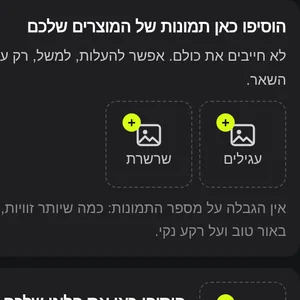
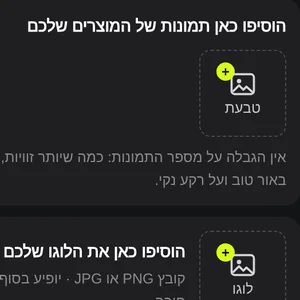
How it works, catalog steps: a video order with two clean ring photos and a matching ring video; tidier order message
Claude-Session: https://claude.ai/code/session_015Kj6wZhrCRAfSfrvuRRH85

diff --git a/index.html b/index.html
@@ -880,7 +880,7 @@ dialog .undo{bottom:24px}
       <div class="hw-tabs" role="tablist" aria-label="שתי הדרכים"><button type="button" role="tab" id="hwt-cat" data-hw="cat" aria-selected="true" aria-controls="how-cat">בוחרים מהקטלוג</button><button type="button" role="tab" id="hwt-scan" data-hw="scan" aria-selected="false" aria-controls="how-scan">שולחים את העסק</button></div>
       <div class="hw-p" id="how-cat" role="tabpanel" aria-labelledby="hwt-cat">
         <p class="hw-line">לוחצים על סרטון או תמונה, מצרפים תמונה של התכשיט שלכם, ושולחים לי בוואטסאפ.</p>
-        <div class="hw-row"><button type="button" class="hw-s" aria-expanded="false" data-big="how/b1.webp?3" data-h="בוחרים פרסומת" data-d="גוללים בקטלוג ומסננים לפי סגנון. לחיצה על + או על הפרסומת עצמה פותחת אותה עם המחיר. בסרטונים, הלב שומר אותם לרשימת &quot;אהבתי&quot; כדי לחזור אליהם אחר כך." data-ill="0"><span class="ph"><img src="how/b1-s.webp?3" alt="" loading="lazy" width="300" height="300"><i aria-hidden="true">1</i></span><b>בוחרים</b></button><button type="button" class="hw-s" aria-expanded="false" data-big="how/b2.webp?3" data-h="מצרפים תמונות של התכשיט" data-d="בחלון שנפתח יש משבצת לכל סוג תכשיט שמופיע בפרסומת, למשל עגילים ושרשרת. מעלים תמונות מהטלפון, וכמה שיותר זוויות, יותר טוב. לא חייבים את כל הסוגים, ואפשר להוסיף גם לוגו והערות." data-ill="0"><span class="ph"><img src="how/b2-s.webp?3" alt="" loading="lazy" width="300" height="300"><i aria-hidden="true">2</i></span><b>מצרפים תכשיט</b></button><button type="button" class="hw-s" aria-expanded="false" data-big="how/b3.webp?3" data-h="שולחים בוואטסאפ ומקבלים" data-d="לוחצים &quot;שליחה אליי בוואטסאפ&quot;, או מוסיפים לסל כדי להזמין כמה יחד. ההזמנה נפתחת בוואטסאפ כהודעה מוכנה, ואתם רק שולחים. תוך 2 ימי עסקים מקבלים את הפרסומת עם התכשיטים שלכם." data-ill="1"><span class="ph"><img src="how/b3-s.webp?3" alt="" loading="lazy" width="300" height="300"><i aria-hidden="true">3</i><em>המחשה</em></span><b>שולחים ומקבלים</b></button></div>
+        <div class="hw-row"><button type="button" class="hw-s" aria-expanded="false" data-big="how/b1.webp?4" data-h="בוחרים פרסומת" data-d="גוללים בקטלוג ומסננים לפי סגנון. לחיצה על + או על הפרסומת עצמה פותחת אותה עם המחיר. בסרטונים, הלב שומר אותם לרשימת &quot;אהבתי&quot; כדי לחזור אליהם אחר כך." data-ill="0"><span class="ph"><img src="how/b1-s.webp?4" alt="" loading="lazy" width="300" height="300"><i aria-hidden="true">1</i></span><b>בוחרים</b></button><button type="button" class="hw-s" aria-expanded="false" data-big="how/b2.webp?4" data-h="מצרפים תמונות של התכשיט" data-d="בחלון שנפתח יש משבצת לכל סוג תכשיט שמופיע בפרסומת, למשל טבעת, צמיד ועגילים. מעלים תמונות מהטלפון, וכמה שיותר זוויות, יותר טוב. לא חייבים את כל הסוגים, ואפשר להוסיף גם לוגו והערות." data-ill="0"><span class="ph"><img src="how/b2-s.webp?4" alt="" loading="lazy" width="300" height="300"><i aria-hidden="true">2</i></span><b>מצרפים תכשיט</b></button><button type="button" class="hw-s" aria-expanded="false" data-big="how/b3.webp?4" data-h="שולחים בוואטסאפ ומקבלים" data-d="לוחצים &quot;שליחה אליי בוואטסאפ&quot;, או מוסיפים לסל כדי להזמין כמה יחד. ההזמנה נפתחת בוואטסאפ כהודעה מוכנה, ואתם רק שולחים. תוך 2 ימי עסקים מקבלים את הפרסומת עם התכשיטים שלכם." data-ill="1"><span class="ph"><img src="how/b3-s.webp?4" alt="" loading="lazy" width="300" height="300"><i aria-hidden="true">3</i><em>המחשה</em></span><b>שולחים ומקבלים</b></button></div>
         <p class="hw-hint">לחיצה על תמונה פותחת הסבר מפורט.</p>
         <div class="hw-d" hidden><div class="hw-dimg"><img alt=""><em hidden>המחשה</em></div><div class="hw-dt"><h3></h3><p></p><button type="button" class="hw-dx">סגירה</button></div></div>
         <div class="hw-cta"><a class="btn gold" href="#gallery">לקטלוג הפרסומות <span class="arr" aria-hidden="true">←</span></a></div>
@@ -1401,8 +1401,8 @@ dialog .undo{bottom:24px}
   document.getElementById('lbSend').addEventListener('click',function(){var ag=document.getElementById('lbAgree'),er=document.getElementById('lbErr');
     if(!ag.checked){er.textContent='כדי לשלוח צריך לסמן את ההסכמה למדיניות הפרטיות.';er.hidden=false;ag.focus();return;}
     er.hidden=true;var id=lbId,i=find(id),a=lbArr(),nv=lbNote.value.trim();
-    var L=['*הזמנה מהאתר · BOOST MEDIA*',i.ph?'תמונת קמפיין '+dispNum(id)+' · '+i.t+' · 10 תמונות קמפיין '+PI+' ₪':'סרטון '+dispNum(id)+' · '+i.t+' · '+vp(id)+' ₪','תמונות: '+(a.length?pdesc(a)+', שולח/ת בהודעה נפרדת':'עדיין לא צירפתי, אשלח בשיחה')];
-    if(nv)L.push('הערות: '+nv);L.push('לצפייה: '+BASE+(i.ph?'ph/'+phN(id)+'.webp':'?v='+numOf(id)),'','אשמח לקבל פרטי תשלום.');
+    var L=['*הזמנה מהאתר · BOOST MEDIA*','',i.ph?'*תמונת קמפיין '+dispNum(id)+'* · '+i.t:'*סרטון '+dispNum(id)+'* · '+i.t,'*מחיר:* '+(i.ph?'10 תמונות קמפיין · '+PI+' ₪':vp(id)+' ₪'),'*תמונות:* '+(a.length?pdesc(a)+', נשלחות בהודעה נפרדת':'עדיין לא צירפתי, אשלח בשיחה')];
+    if(nv)L.push('*הערות:* '+nv);L.push('*לצפייה:* '+BASE+(i.ph?'ph/'+phN(id)+'.webp':'?v='+numOf(id)),'','אשמח לקבל פרטי תשלום.');
     goWA(wa(L.join('\n')));document.getElementById('lbAfter').hidden=!a.length;});
   document.getElementById('lbShare').addEventListener('click',async function(){var files=lbArr().slice();
     if(navigator.canShare&&navigator.canShare({files:files})){try{await navigator.share({files:files});}catch(e){}}
